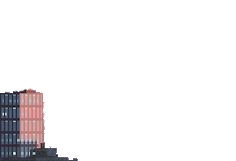
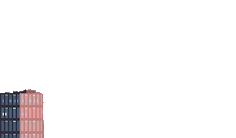
Why do we exist

Changed region(s): [[0.0, 0.5507, 0.3559, 1.0]]

diff --git a/BeatPix/src/screens/events/MeteorShower.java b/BeatPix/src/screens/events/MeteorShower.java
@@ -80,8 +80,9 @@ public class MeteorShower {
 			theShip = new AnimatedComponent(500, 0, 150, 150);
 			theShip.addSequence("resources\\backgrounds\\fireball_0.png", 8, 0, 0, 64, 54, 8);
 			
-			ImageIcon icon = new ImageIcon("resources\\backgrounds\\start_top.jpg");
-			startTop = new Graphic(s.getWidth(),icon.getIconHeight(),"resources\\backgrounds\\start_top.jpg");
+			ImageIcon icon = new ImageIcon("resources\\backgrounds\\building.png");
+			startTop = new Graphic(0,0,s.getWidth(), icon.getIconHeight()*s.getWidth()/icon.getIconWidth()
+								,"resources\\backgrounds\\building.png");
 			
 			Thread run = new Thread(theShip);
 			run.start();
@@ -94,7 +95,7 @@ public class MeteorShower {
 		personal.scheduleAtFixedRate(new TimerTask() {
 			public void run() {
 				theShip.setY(theShip.getY() + 8);
-				theShip.setX(theShip.getX() - 1);
+				theShip.setX(theShip.getX() - 8);
 			}
 		}, 0, 40);
 	}
